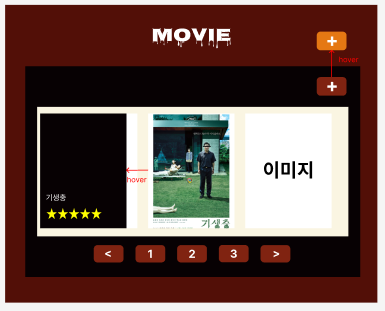
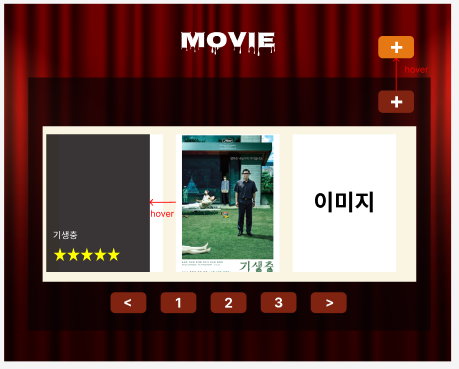
241004 mini-project movie_review 완성

diff --git a/side_project/movie_review/src/css/common.css b/side_project/movie_review/src/css/common.css
@@ -13,7 +13,9 @@ a:visited {
 }
 
 .container {
-    background-color: #520F07;
+    background-image: url('../img/basic/curtain.jpg');
+    background-position: center;
+    background-repeat: no-repeat;
     width: 1000px;
     margin: 0 auto;
     padding: 50px;
@@ -27,7 +29,7 @@ header {
 
 /* main */
 main {
-    background-color: #070103;
+    background-color: #070103a8;
     width: 800px;
     margin: 0 auto;
     padding: 30px;

diff --git a/side_project/movie_review/src/css/index.css b/side_project/movie_review/src/css/index.css
@@ -2,6 +2,8 @@
 
 .start-page {
     background-color: #070103;
+    width: 1000px;
+    margin: 0 auto;
     height: 600px;
     padding: 0;
     position: relative;
@@ -56,12 +58,3 @@
         opacity: 1;
     }
 }
-
-
-/* .open_btn:hover ~ .open_box {
-    animation: open 8s ease-in-out;
-} */
-
- /* .start-page_btn:visited {
-    color: #fff;
-} */

diff --git a/side_project/movie_review/src/css/delete.css b/side_project/movie_review/src/css/delete.css
@@ -10,6 +10,7 @@
 
 .delete-page_coment {
     text-align: center;
+    font-size: 1.3rem;
     color: #FAF5E2;
 }
 

diff --git a/side_project/movie_review/src/detail.php b/side_project/movie_review/src/detail.php
@@ -5,55 +5,22 @@
 
     $conn = null;
     try {
-        if(strtoupper($_SERVER["REQUEST_METHOD"]) === "GET") {
-            // GET
+        $id = isset($_GET["id"]) ? (int)$_GET["id"] : 0;  // id 획득
 
-            $id = isset($_GET["id"]) ? (int)$_GET["id"] : 0;  // id 획득
+        $page = isset($_GET["page"]) ? (int)$_GET["page"] : 1;  // page 획득
 
-            $page = isset($_GET["page"]) ? (int)$_GET["page"] : 1;  // page 획득
-
-            if($id < 1) {
-                throw new Exception("파라미터 오류");
-            }
-
-            $conn = my_db_conn();
-
-            $arr_prepare = [
-                "id" => $id
-            ];
-
-            $result = my_reviews_select_id($conn, $arr_prepare);
-        } else {
-            // POST - 버튼 눌렀을 때
-
-            $id = isset($_POST["id"]) ? (int)$_POST["id"] : 0;  // id 획득
-
-            $good = isset($_POST["good"]) ? (int)$_POST["good"] : 0 ;
-
-            if($id < 1) {
-                throw new Exception("파라미터 오류");
-            }
-
-            $conn = my_db_conn();
-
-            $conn->beginTransaction();
-
-            $arr_prepare = [
-                "id" => $id
-                ,"good" => $good
-            ];
-
-            my_reviews_update_good($conn, $arr_prepare);
-
-            // $conn->commit();
-            // header("Location: /detail.php?id=".$id);
-            // exit;
+        if($id < 1) {
+            throw new Exception("파라미터 오류");
         }
+
+        $conn = my_db_conn();
+
+        $arr_prepare = [
+            "id" => $id
+        ];
+
+        $result = my_reviews_select_id($conn, $arr_prepare);
     } catch(Throwable $th) {
-        if(!is_null($conn) && $conn->inTransaction()) {
-            $conn->rollBack();
-        }
-
         require_once(MY_PATH_ERROR);
         exit;
     }
@@ -75,7 +42,6 @@
         <?php
             require_once(MY_PATH_HEADER);
         ?>
-
         <main>
             <div class="list">
                 <img src="<?php echo $result["img"] ?>" class="detail-page_img">
@@ -90,12 +56,10 @@
                         <p><?php echo $result["rating"] ?></p>
                     </div>
                     <p class="content-list review"><?php echo $result["review"] ?></p>
-                    <form action="./detail.php?id=<?php echo $result["id"] ?>" method="post">
-                        <p class="content-list btn-group">
-                            <button type="submit" class="btn_thumbs"><i class="fa-solid fa-thumbs-up"></i> <?php echo $result["good"] ?></button>
-                            <button type="submit" class="btn_thumbs"><i class="fa-solid fa-thumbs-down"></i> <?php echo $result["bad"] ?></button>
-                        </p>
-                    </form>
+                    <p class="content-list btn-group">
+                        <button class="btn_thumbs" onclick="location.href='./good_cnt.php?id=<?php echo $id ?>&page=<?php echo $page ?>'"><i class="fa-solid fa-thumbs-up"></i> <?php echo $result["good"] ?></button>
+                        <button class="btn_thumbs" onclick="location.href='./bad_cnt.php?id=<?php echo $id ?>&page=<?php echo $page ?>'"><i class="fa-solid fa-thumbs-down"></i> <?php echo $result["bad"] ?></button>
+                    </p>
                     <p class="content-list" style="text-align: center;"><img src="./img/basic/barcode.png" class="content-barcode"></p>
                 </div>
             </div>
@@ -105,30 +69,6 @@
                 <a href="./delete.php?id=<?php echo $result["id"] ?>&page=<?php echo $page ?>"><button class="btn-style">삭제</button></a>
             </div>
         </main>
-
-        <!-- <main>
-            <div class="list">
-                <img src="<?php // echo $result["img"] ?>" class="detail-page_img">
-                
-                <div class="content-box">
-                    <p class="content-list"><?php // echo $result["title"] ?></p>
-                    <p class="content-list"><?php // echo $result["created_at"] ?></p>
-                    <div class="content-list rating">
-                        <p>
-                            <?php // echo print_stars($result); ?>
-                        </p>
-                        <p><?php // echo $result["rating"] ?></p>
-                    </div>
-                    <p class="content-list review"><?php // echo $result["review"] ?></p>
-                    <p class="content-list" style="text-align: center;"><img src="./img/basic/barcode.png" class="content-barcode"></p>
-                </div>
-            </div>
-            <div class="main_footer">
-                <a href="./update.php?id=<?php // echo $result["id"] ?>&page=<?php // echo $page ?>"><button class="btn-style">수정</button></a>
-                <a href="./main.php?page=<?php // echo $page ?>"><button class="btn-style">취소</button></a>
-                <a href="./delete.php?id=<?php // echo $result["id"] ?>&page=<?php // echo $page ?>"><button class="btn-style">삭제</button></a>
-            </div>
-        </main> -->
     </div>
 </body>
 </html>

diff --git a/side_project/movie_review/src/good_cnt.php b/side_project/movie_review/src/good_cnt.php
@@ -1,0 +1,42 @@
+<?php
+    require_once($_SERVER["DOCUMENT_ROOT"]."/config.php");
+    require_once(MY_PATH_DB_LIB);
+
+    $conn = null;
+
+    try {
+        $id = isset($_GET["id"]) ? (int)$_GET["id"] : 0;  // id 획득
+
+        $page = isset($_GET["page"]) ? (int)$_GET["page"] : 1;  // page 획득
+
+        if($id < 1) {
+            throw new Exception("파라미터 오류");
+        }
+
+        $conn = my_db_conn();
+
+        $arr_prepare = [
+            "id" => $id
+        ];
+        $result = my_reviews_select_id($conn, $arr_prepare);  // id 이용해서 데이터 조회
+
+        $conn->beginTransaction();
+
+        $good = $result["good"] + 1;
+        $arr_preapre_good = [
+            "id" => $id
+            ,"good" => $good
+        ];
+        my_reviews_update_good($conn, $arr_preapre_good);
+        $conn->commit();
+        header("Location: /detail.php?id=".$id."&page=".$page);
+        exit;
+    } catch(Throwable $th) {
+        if(!is_null($conn) && $conn->inTransaction()) {
+            $conn->rollBack();
+        }
+
+        require_once(MY_PATH_ERROR);
+        exit;
+    }
+?>

diff --git a/side_project/movie_review/src/bad_cnt.php b/side_project/movie_review/src/bad_cnt.php
@@ -1,0 +1,42 @@
+<?php
+    require_once($_SERVER["DOCUMENT_ROOT"]."/config.php");
+    require_once(MY_PATH_DB_LIB);
+
+    $conn = null;
+
+    try {
+        $id = isset($_GET["id"]) ? (int)$_GET["id"] : 0;  // id 획득
+
+        $page = isset($_GET["page"]) ? (int)$_GET["page"] : 1;  // page 획득
+
+        if($id < 1) {
+            throw new Exception("파라미터 오류");
+        }
+
+        $conn = my_db_conn();
+
+        $arr_prepare = [
+            "id" => $id
+        ];
+        $result = my_reviews_select_id($conn, $arr_prepare);  // id 이용해서 데이터 조회
+
+        $conn->beginTransaction();
+
+        $bad = $result["bad"] + 1;
+        $arr_preapre_bad = [
+            "id" => $id
+            ,"bad" => $bad
+        ];
+        my_reviews_update_bad($conn, $arr_preapre_bad);
+        $conn->commit();
+        header("Location: /detail.php?id=".$id."&page=".$page);
+        exit;
+    } catch(Throwable $th) {
+        if(!is_null($conn) && $conn->inTransaction()) {
+            $conn->rollBack();
+        }
+
+        require_once(MY_PATH_ERROR);
+        exit;
+    }
+?>

diff --git a/side_project/movie_review/src/lib/db_lib.php b/side_project/movie_review/src/lib/db_lib.php
@@ -123,7 +123,33 @@ function my_reviews_update_good(PDO $conn, array $arr_param) {
     $sql =
         " UPDATE reviews "
         ." SET "
-        ."      good = :good++ "
+        ."      good = :good "
+        ." WHERE "
+        ."      id = :id "
+    ;
+
+    $stmt = $conn->prepare($sql);
+    $result_flg = $stmt->execute($arr_param);
+
+    if(!$result_flg) {
+        throw new Exception("쿼리 실행 실패");
+    }
+
+    if($stmt->rowCount() !== 1) {
+        throw new Exception("Update Count 이상");
+    }
+
+    return true;
+}
+
+/**
+ * 게시글 싫어요 수 관리
+ */
+function my_reviews_update_bad(PDO $conn, array $arr_param) {
+    $sql =
+        " UPDATE reviews "
+        ." SET "
+        ."      bad = :bad "
         ." WHERE "
         ."      id = :id "
     ;

diff --git a/side_project/movie_review/src/index.php b/side_project/movie_review/src/index.php
@@ -9,7 +9,7 @@
     <title>시작 페이지</title>
 </head>
 <body>
-    <div class="container start-page">
+    <div class="start-page">
         <img src="./img/basic/curtain.jpg" class="start-page_curtain">
         <h1 class="start-page_title">영화가 끝나고 난 뒤...</h1>
         <a href="./main.php" class="start-page_btn">click</a>
